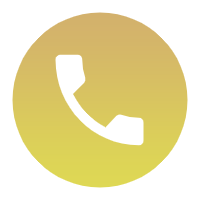
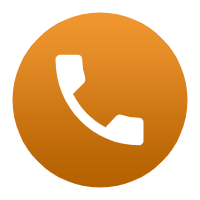
界面

diff --git a/public/mobile/black/css/member.css b/public/mobile/black/css/member.css
@@ -2597,7 +2597,7 @@ button.cancel-btn[_ngcontent-way-c22] {
 .top {
     width: 100%;
     height: 62px;
-    background:rgba(255, 255,255, .1);
+    background:#111e33;
     position: fixed;
     color: #fff;
     top: 0;
@@ -2649,7 +2649,7 @@ button.cancel-btn[_ngcontent-way-c22] {
 .qb {
     width: 34px;
     height: 29px;
-    background:#fcde50;
+    background:#ffb31a;
     border-radius: 5px;
     right: 3px;
     top: 1px;
@@ -2760,8 +2760,8 @@ button.cancel-btn[_ngcontent-way-c22] {
 .vip_button{
     width: 70%;
     margin: 20px auto 0 auto;
-    background: linear-gradient(to bottom, #fefcfb, #eab9b0);
-    color: #14092b;
+    background: linear-gradient(to bottom,#ef962f,#b56100);
+    color: #fff;
     height: 48px;
     border-radius: 5px;
     display: block;
@@ -2866,8 +2866,8 @@ button.cancel-btn[_ngcontent-way-c22] {
     font-size:15px;
 }
 .e_b2{
-    background-image: linear-gradient(to bottom, #d3b16c, #ded854);
-    color:#864635;
+    background: linear-gradient(to bottom,#ef962f,#b56100);
+    color:#fff;
     width:140px;
     height:40px;
     border-radius:8px;
@@ -2916,7 +2916,7 @@ button.cancel-btn[_ngcontent-way-c22] {
     width: 90%;
     height: 70px;
     margin: 15px auto 0 auto;
-    background: #046031;
+    background:#111e33;
     border-radius: 5px;
     overflow: hidden;
     position: relative;

diff --git a/public/mobile/black/css/index.css b/public/mobile/black/css/index.css
@@ -1532,7 +1532,7 @@ button.cancel-btn[_ngcontent-way-c22] {
 .top {
     width: 100%;
     height: 62px;
-    background: #1a2c38;
+    background: #111e33;
     position: fixed;
     color: #fff;
     top: 0;
@@ -3321,7 +3321,7 @@ button.cancel-btn[_ngcontent-way-c22] {
     background-image: url(/mobile/black/images/game_pg.png)
 }
 .active-side-menu .game_pg{
-    background-image: url(/mobile/black/images/game_pg_on.png)
+    background-image: url(/mobile/black/images/game_pg.png)
 }
 
 .game_ji{

diff --git a/public/mobile/black/css/share.css b/public/mobile/black/css/share.css
@@ -1,7 +1,7 @@
 .top {
     width: 100%;
     height: 62px;
-    background:#131f32;
+    background:#111e33;
     position: fixed;
     color: #fff;
     top: 0;
@@ -1837,8 +1837,8 @@ button.cancel-btn[_ngcontent-way-c22] {
     margin-bottom:40px;
     display:inline-block;
     font-size:14px;
-    background: linear-gradient(to bottom, #e2d238, #f2bc51);
-    color:#963410;
+    background: linear-gradient(to bottom,#ef962f,#b56100);
+    color:#fff;
 }
 
 .recharge_wk{

diff --git a/public/mobile/black/css/shop.css b/public/mobile/black/css/shop.css
@@ -179,8 +179,8 @@
     overflow: hidden;
     font-size:16px;
 
-    background: linear-gradient(to bottom, #fefcfb, #eab9b0);
-    color:#14092b;
+    background: linear-gradient(to bottom,#ef962f,#b56100);
+    color:#fff;
 }
 
 .draw_top{

diff --git a/resources/views/black/member/reset_password.blade.php b/resources/views/black/member/reset_password.blade.php
@@ -8,28 +8,28 @@
     <link rel="stylesheet" href="https://baxigame1.s3.sa-east-1.amazonaws.com/bx_4/public/static/css/material-icons.css">
     <link rel="stylesheet" href="https://baxigame1.s3.sa-east-1.amazonaws.com/bx_4/public/static/css/styles.4917b6f03b8811030eaf.css">
     <link rel="stylesheet" href="https://baxigame1.s3.sa-east-1.amazonaws.com/bx_4/public/static/css/DINAlternate-bold.css">
-    <link rel="stylesheet" href="/mobile/blue/css/shop.css">
-    <link rel="stylesheet" href="/mobile/blue/css/share.css">
+    <link rel="stylesheet" href="/mobile/black/css/shop.css">
+    <link rel="stylesheet" href="/mobile/black/css/share.css">
     <!-- Used in supported Android browsers -->
  
     <script>var Webconfigs = {
         "ROOT": "__ROOT__"
       }</script>
     <script type="text/javascript" src="https://baxigame1.s3.sa-east-1.amazonaws.com/bx_4/public/static/js/way.min.js"></script>
-    <meta name="theme-color" content="#1e366b">
+    <meta name="theme-color" content="#0a0e2b">
     <meta name="apple-mobile-web-app-capable" content="yes">
     <!-- Fixed position has issue with iOS Safari using black-translucent -->
     <meta name="apple-mobile-web-app-status-bar-style" content="black">
     <meta name="format-detection" content="telephone=no">
     </head>
 
-  <body style="color: white; background-color: #1e366b;">
+  <body style="color: white; background-color: #0a0e2b;">
     <jx-root ng-version="8.2.12">
       <router-outlet></router-outlet>
       <jx-main-wrapper _nghost-snw-c0="">
         <router-outlet _ngcontent-snw-c0=""></router-outlet>
         <jx-activity-page _nghost-snw-c1="" class="ng-star-inserted">
-        @include('blue.common.top_sub')
+        @include('black.common.top_sub')
           <jx-app-background _ngcontent-snw-c1="" _nghost-snw-c2="">
             <div _ngcontent-snw-c2="" class="app-background"></div>
           </jx-app-background>
@@ -59,8 +59,8 @@
 
               </jx-header-row>
             </div>
-            @include('blue.common.loading')
-            @include('blue.common.modal')
+            @include('black.common.loading')
+            @include('black.common.modal')
             <div _ngcontent-snw-c3="" class="header-view__content-wrapper" style="padding-bottom: 50px; padding-top: 64px;">
               <div _ngcontent-snw-c3="" class="header-view__content-wrapper__content-container">
                 <jx-safe-area _ngcontent-snw-c1="" class="safe-area-top safe-area-bottom safe-area-left safe-area-right" style="display: block; box-sizing: border-box;">

diff --git a/resources/views/black/member/customer_service.blade.php b/resources/views/black/member/customer_service.blade.php
@@ -8,8 +8,8 @@
     <link rel="stylesheet" href="/static/css/material-icons.css">
     <link rel="stylesheet" href="/static/css/styles.4917b6f03b8811030eaf.css">
     <link rel="stylesheet" href="/static/css/DINAlternate-bold.css">
-    <link rel="stylesheet" href="/mobile/blue/css/activity.css">
-    <link rel="stylesheet" href="/mobile/blue/css/member.css">
+    <link rel="stylesheet" href="/mobile/black/css/activity.css">
+    <link rel="stylesheet" href="/mobile/black/css/member.css">
     <!-- Used in supported Android browsers -->
  
     <script>var Webconfigs = {
@@ -18,14 +18,14 @@
     <script type="text/javascript" src="/static/js/way.min.js"></script>
    
 
-    <meta name="theme-color" content="#1e366b">
+    <meta name="theme-color" content="#0a0e2b">
     <meta name="apple-mobile-web-app-capable" content="yes">
     <!-- Fixed position has issue with iOS Safari using black-translucent -->
     <meta name="apple-mobile-web-app-status-bar-style" content="black">
     <meta name="format-detection" content="telephone=no">
     </head>
 
-  <body style="color: white; background-color: #1e366b;">
+  <body style="color: white; background-color: #0a0e2b;">
     <jx-root ng-version="8.2.12">
       <router-outlet></router-outlet>
       <jx-main-wrapper _nghost-snw-c0="">
@@ -36,7 +36,7 @@
           </jx-app-background>
           <jx-header-view _ngcontent-snw-c1="" title="" _nghost-snw-c3="">
           
-          @include('blue.common.top_sub') 
+          @include('black.common.top_sub') 
 
             <div class="email_h"></div>
 
@@ -45,7 +45,7 @@
                 <div class="kf">
                 <a href="{{ $item['url'] }}">
                   <div class="kf_yq">
-                      <img src="/mobile/blue/images/dh_ico.png" />
+                      <img src="/mobile/black/images/dh_ico.png" />
                   </div>
                   <div class="kf_text">
                       <h2>WhatsApp suporte</h2>
@@ -60,7 +60,7 @@
               <div class="kf">
               <a href="{{ $item['url'] }}">
                 <div class="kf_yq">
-                    <img src="/mobile/blue/images/kf_ico.png" />
+                    <img src="/mobile/black/images/kf_ico.png" />
                 </div>
                 <div class="kf_text">
                     <h2>Atendimento ao cliente</h2>

diff --git a/resources/views/black/member/vip.blade.php b/resources/views/black/member/vip.blade.php
@@ -8,8 +8,8 @@
     <link rel="stylesheet" href="https://baxigame1.s3.sa-east-1.amazonaws.com/bx_4/public/static/css/material-icons.css">
     <link rel="stylesheet" href="https://baxigame1.s3.sa-east-1.amazonaws.com/bx_4/public/static/css/styles.4917b6f03b8811030eaf.css">
     <link rel="stylesheet" href="https://baxigame1.s3.sa-east-1.amazonaws.com/bx_4/public/static/css/DINAlternate-bold.css">
-    <link rel="stylesheet" href="/mobile/blue/css/activity.css">
-    <link rel="stylesheet" href="/mobile/blue/css/member.css">
+    <link rel="stylesheet" href="/mobile/black/css/activity.css">
+    <link rel="stylesheet" href="/mobile/black/css/member.css">
     <link rel="stylesheet" href="https://baxigame1.s3.sa-east-1.amazonaws.com/bx_4/public/mobile/css/swiper-bundle.min.css">
     <!-- Used in supported Android browsers -->
  
@@ -19,14 +19,14 @@
     <script type="text/javascript" src="https://baxigame1.s3.sa-east-1.amazonaws.com/bx_4/public/static/js/way.min.js"></script>
    
 
-    <meta name="theme-color" content="#1e366b">
+    <meta name="theme-color" content="#0a0e2b">
     <meta name="apple-mobile-web-app-capable" content="yes">
     <!-- Fixed position has issue with iOS Safari using black-translucent -->
     <meta name="apple-mobile-web-app-status-bar-style" content="black">
     <meta name="format-detection" content="telephone=no">
     </head>
 
-  <body style="color: white; background-color: #1e366b;">
+  <body style="color: white; background-color: #0a0e2b;">
     <jx-root ng-version="8.2.12">
       <router-outlet></router-outlet>
       <jx-main-wrapper _nghost-snw-c0="">
@@ -37,7 +37,7 @@
           </jx-app-background>
           <jx-header-view _ngcontent-snw-c1="" title="" _nghost-snw-c3="">
           
-          @include('blue.common.top_sub') 
+          @include('black.common.top_sub') 
 
             <div class="banner">
 
@@ -111,7 +111,7 @@
               <jx-footer-row _ngcontent-way-c1="" _nghost-way-c9="">
                 <jx-tab-bar _ngcontent-way-c1="" _nghost-way-c10="">
                   
-                  @include('blue.common.footer') 
+                  @include('black.common.footer') 
                   
                  
                 </jx-tab-bar>

diff --git a/resources/views/black/email/email.blade.php b/resources/views/black/email/email.blade.php
@@ -2,14 +2,14 @@
   
   <head>
     <meta charset="utf-8">
-    @include('mobile.common.common_title') 
+    @include('black.common.common_title') 
     <base href="/">
     <!-- Material Icons -->
     <link rel="stylesheet" href="https://baxigame1.s3.sa-east-1.amazonaws.com/bx_4/public/static/css/material-icons.css">
     <link rel="stylesheet" href="https://baxigame1.s3.sa-east-1.amazonaws.com/bx_4/public/static/css/styles.4917b6f03b8811030eaf.css">
     <link rel="stylesheet" href="https://baxigame1.s3.sa-east-1.amazonaws.com/bx_4/public/static/css/DINAlternate-bold.css">
-    <link rel="stylesheet" href="/mobile/blue/css/activity.css">
-    <link rel="stylesheet" href="/mobile/blue/css/member.css">
+    <link rel="stylesheet" href="/mobile/black/css/activity.css">
+    <link rel="stylesheet" href="/mobile/black/css/member.css">
     <!-- Used in supported Android browsers -->
  
     <script>var Webconfigs = {
@@ -36,7 +36,7 @@
           </jx-app-background>
           <jx-header-view _ngcontent-snw-c1="" title="" _nghost-snw-c3="">
           
-          @include('green.common.top_sub') 
+          @include('black.common.top_sub') 
 
             <div class="email_h"></div>
             <div id="email_list_pages">
@@ -74,7 +74,7 @@
               <jx-footer-row _ngcontent-way-c1="" _nghost-way-c9="">
                 <jx-tab-bar _ngcontent-way-c1="" _nghost-way-c10="">
                   
-                  @include('green.common.footer') 
+                  @include('black.common.footer') 
                   
                  
                 </jx-tab-bar>

diff --git a/resources/views/black/activity/show.blade.php b/resources/views/black/activity/show.blade.php
@@ -8,7 +8,7 @@
     <link rel="stylesheet" href="https://baxigame1.s3.sa-east-1.amazonaws.com/bx_4/public/static/css/amazeui.min.css">
     <link rel="stylesheet" href="https://baxigame1.s3.sa-east-1.amazonaws.com/bx_4/public/static/css/common2.css">
     <link rel="stylesheet" href="https://baxigame1.s3.sa-east-1.amazonaws.com/bx_4/public/static/css/material-icons.css">
-    <link rel="stylesheet" href="/mobile/green/css/activity.css">
+    <link rel="stylesheet" href="/mobile/black/css/activity.css">
     <link rel="stylesheet" href="https://baxigame1.s3.sa-east-1.amazonaws.com/bx_4/public/static/css/styles.4917b6f03b8811030eaf.css">
     <link rel="stylesheet" href="https://baxigame1.s3.sa-east-1.amazonaws.com/bx_4/public/static/css/DINAlternate-bold.css">
     <!-- Used in supported Android browsers -->
@@ -82,7 +82,7 @@
               <jx-footer-row _ngcontent-way-c1="" _nghost-way-c9="">
                 <jx-tab-bar _ngcontent-way-c1="" _nghost-way-c10="">
                   
-                  @include('green.common.footer') 
+                  @include('black.common.footer') 
                   
                  
                 </jx-tab-bar>

diff --git a/resources/views/black/common/loading.blade.php b/resources/views/black/common/loading.blade.php
@@ -4,7 +4,20 @@
     </div>
   <style>
   .loadings{width:100%;height:100%;position:fixed; background:rgba(0,0,0,.5);z-index:9999;top:0;left:0;display: none;}
-  .gif{width:32px;height:32px; position:absolute;top:50%;left:50%;margin:-16px 0 0 -16px;}
+  @keyframes loading-1d2e48ee {
+	to {
+		background-position: -6912px
+	}
+}
+  .gif{
+    width: 144px;
+	height: 200px;
+	margin: auto;
+	transform: scale(.3);
+	animation: loading-1d2e48ee 2.5s steps(48) 0s infinite;
+  background:url(/mobile/black/images/loading.png);
+  }
+
 </style>
 <script>
   function showLoading() {

diff --git a/resources/views/black/member/bets.blade.php b/resources/views/black/member/bets.blade.php
@@ -2,7 +2,7 @@
   
   <head>
     <meta charset="utf-8">
-    @include('green.common.common_title') 
+    @include('black.common.common_title') 
     <base href="/">
     <!-- Material Icons -->
     <link rel="stylesheet" href="/static/css/material-icons.css">
@@ -36,7 +36,7 @@
           </jx-app-background>
           <jx-header-view _ngcontent-snw-c1="" title="" _nghost-snw-c3="">
           
-          @include('green.common.top_sub')  
+          @include('black.common.top_sub')  
 
 
             <div class="email_h"></div>

diff --git a/resources/views/black/pay/pageback.blade.php b/resources/views/black/pay/pageback.blade.php
@@ -23,8 +23,8 @@
   <body style="color: white; background-color: #1e366b;">
       <div class="fk_ico"><img src='/mobile/blue/images/dg_yq.png'></div>
       <div class="fk_text_1">
-        <h2>Pagamento efetuado com sucesso！</h2>
-        <p>Seu pagamento foi processado com sucesso。</p>
+        <h2>O pagamento foi concluído！</h2>
+        <p>O pagamento foi concluído, por favor, preste atenção</p>
       </div>
    <script>
    $(function(){
